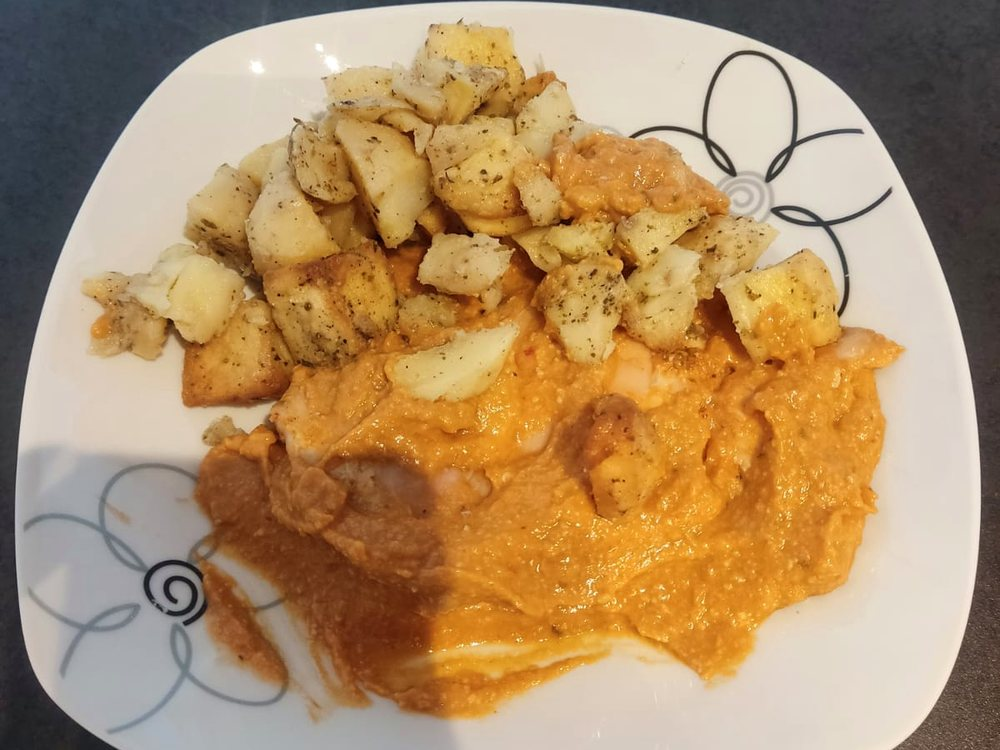
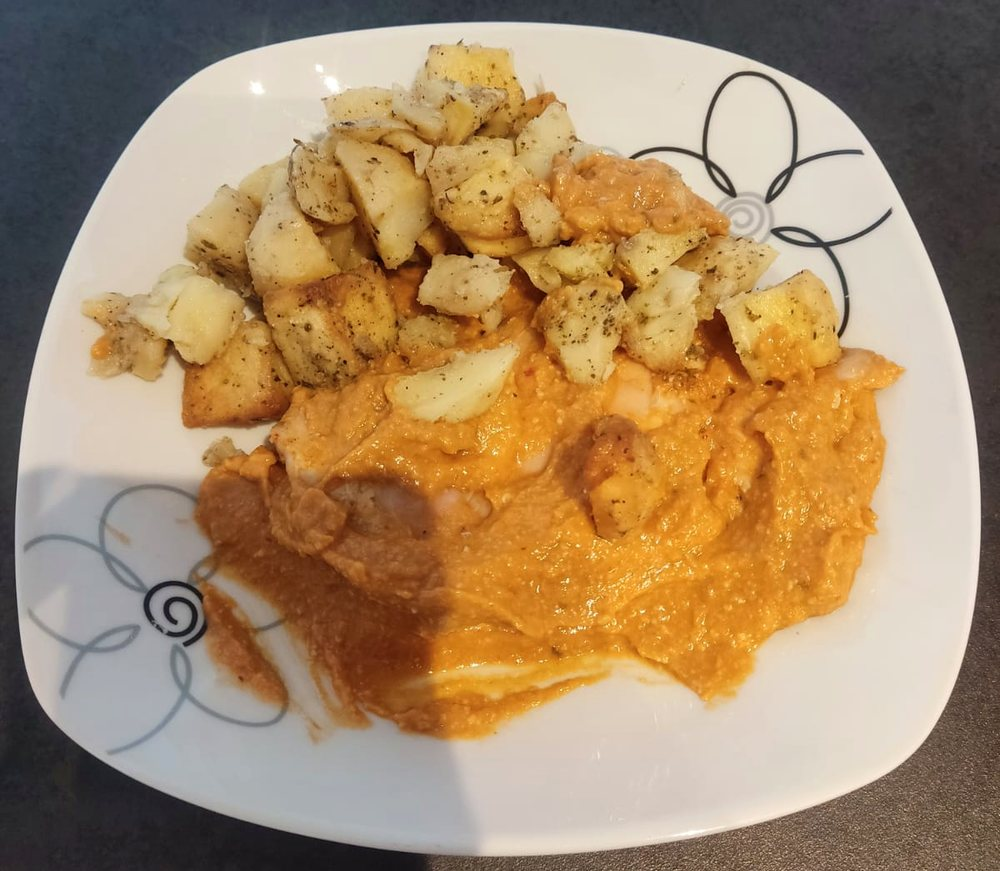
Match the lunch and dinner photos to the breakfast photo size
Recrop both to the breakfast ratio and limit captioned standalone images
to the width of one image in a pair.

diff --git a/src/styles/global.css b/src/styles/global.css
@@ -178,6 +178,10 @@ hr {
 	max-width: min(var(--bleed-width), 100%);
 	vertical-align: middle;
 }
+/* A captioned image on its own matches the width of one image in a pair. */
+.prose > p:has(> img:only-child):has(+ .caption) img {
+	max-width: min((var(--bleed-width) - 0.75em) / 2, 100%);
+}
 /* Two images in one Markdown paragraph, followed by a .caption-pair,
    sit side by side. */
 .prose > p:has(> img + img):has(+ .caption-pair) {
